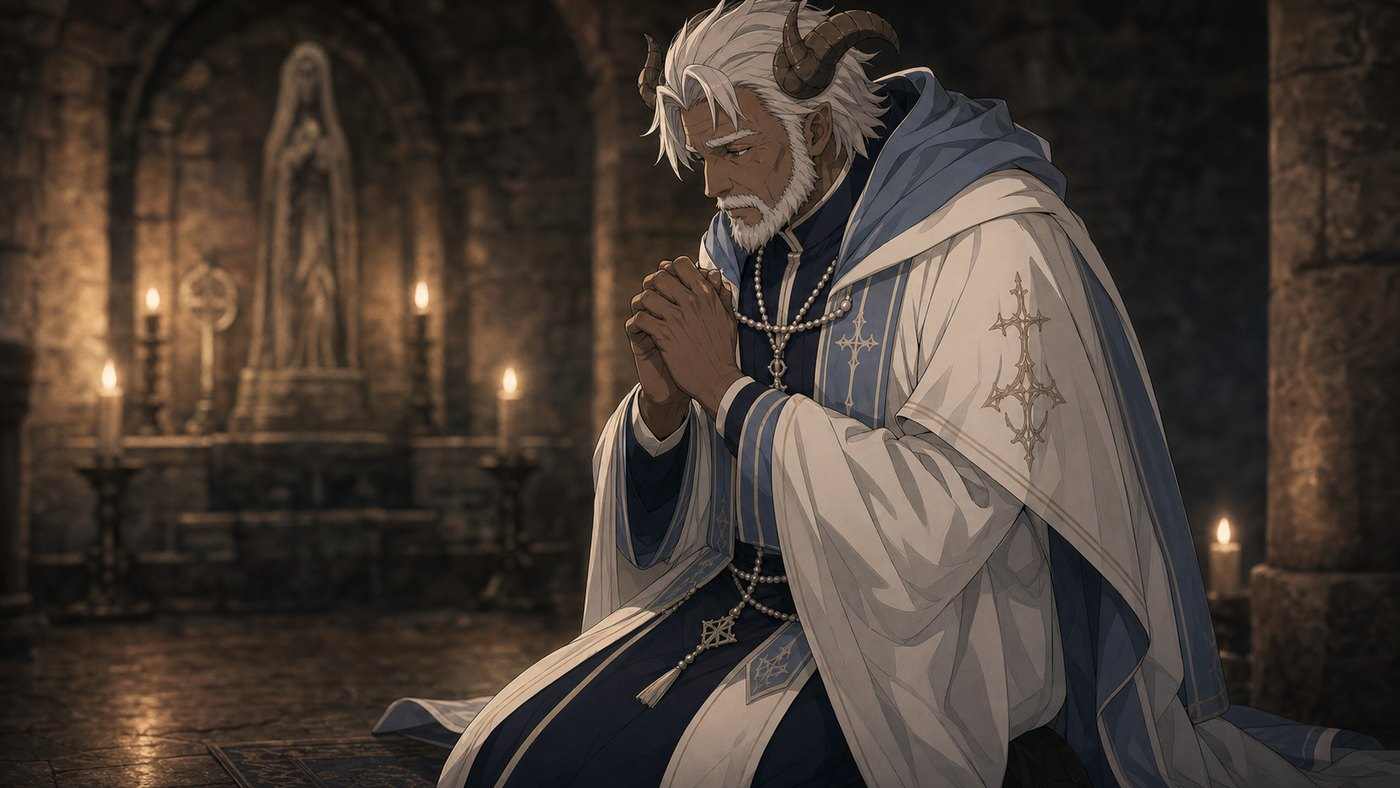
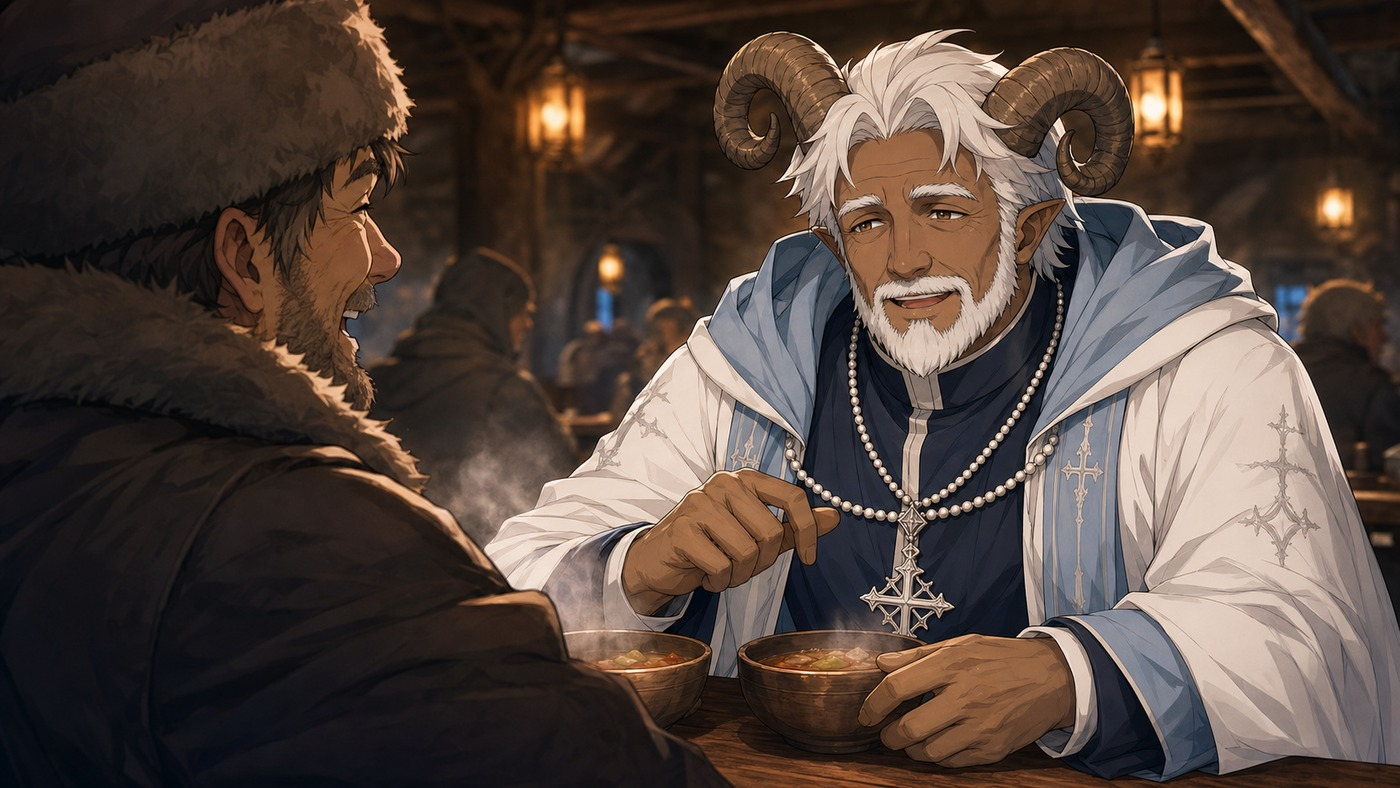
ブラダン神父の立ち絵とスチルを差し替え
- 立ち絵：角を巻き角2本に設計変更（4本は再現不能）／右手に本・左手に杖を握る形へ
- スチル：礼拝堂でひとり祈る絵から、ランタン亭で旅人と笑い合う絵へ

diff --git a/index.html b/index.html
@@ -866,7 +866,7 @@ footer p { font-size:11.5px; color:var(--dim); max-width:640px; margin:0 auto; l
     <p class="reveal wl-lead">その広い世界に横たわる大地のひとつが、エリンディル大陸である。西方には大小の国々が並び立ち、そのいずれにも属さない聖都ディアスロンドが、七大神信仰の総本山として人々の祈りを束ねている。街には人と荷が行き交い、国境では商人と兵士が言葉を交わす。人の世界は豊かで、騒がしく───そして、その営みは北で途切れる。</p>
     <p class="reveal wl-lead">西方の北の縁に、白い壁のようなコナカタ山脈がそびえている。その山腹の底に築かれたのが、エリンディル最北の錬金術都市国家・ラーフ大洞窟だ。そして山脈を越えたさらに北には、果ての見えない氷と荒野が広がっている。</p>
     <p class="reveal wl-lead">かつて、その地の空は厚い雲に閉ざされ、氷を巻き上げる風が、呼びかける声さえ遠くへ運び去ったという。ゆえに、人はその地を“沈黙の氷原”と呼んだ。長いあいだ、そこは地図の果てであり、人が住み続けることのできない場所だと考えられていた。</p>
-    <p class="reveal wl-lead">───だが、いま氷原に立つ者は、伝承ほどの風に出会わない。五十年ほど前、人がふたたびこの地に踏み込んだときには、すでに風は伝承よりはるかに弱かった。近ごろでは、雲の切れ間から日の差す日さえある。声は、よく届く。なぜ静まったのかを説明できた者は、まだいない。名前だけが、昔のままそこに残っている。</p>
+    <p class="reveal wl-lead">───だが、いま氷原に立つ者は、伝承ほどの風に出会わない。五十年ほど前、人がふたたびこの地に踏み込んだときには、すでに風は伝承よりはるかに弱かった。近ごろでは、雲の切れ間から日の差す日さえ珍しくはない。声は、よく届く。なぜ静まったのかを説明できた者は、まだいない。名前だけが、昔のままそこに残っている。</p>
     <p class="reveal wl-lead">聖暦1043年。ヴァイス王国の子爵ヴェルトール・ランベントは、その地位を退き、氷原開拓団の設立を宣言する。目指したものは、一時の探検でも、未知の土地から富を持ち帰ることでもない。氷原に人が住み、明日もその暮らしを続けられるようにすること───入植である。</p>
     <p class="reveal wl-lead">やがて古い見張り塔の足元に、一棟の長屋が建てられた。人々はその小さな拠点に、古い言葉で“始まり”を意味する名を与えた。プリムス。現在では五百人ほどが暮らす、沈黙の氷原ただひとつの街である。</p>
     <p class="reveal wl-lead">氷原のプリムスと、西方世界の北端にあるラーフ大洞窟。そのふたつを結ぶ道は、世界に一本しかない。コナカタ山脈の腹の底を、全長171kmにわたって貫く地下回廊───凍結の回路。</p>
